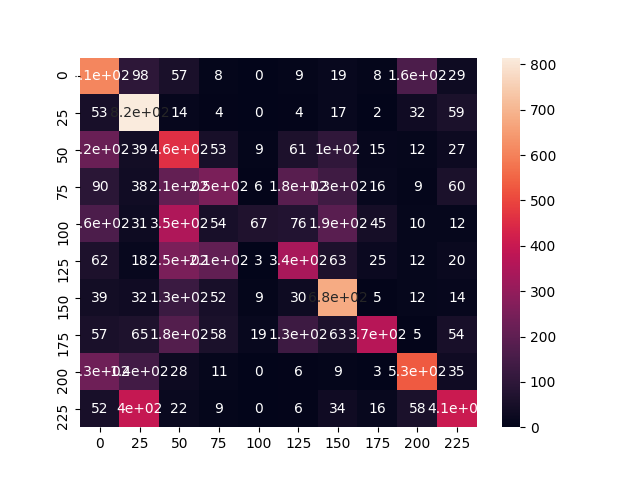
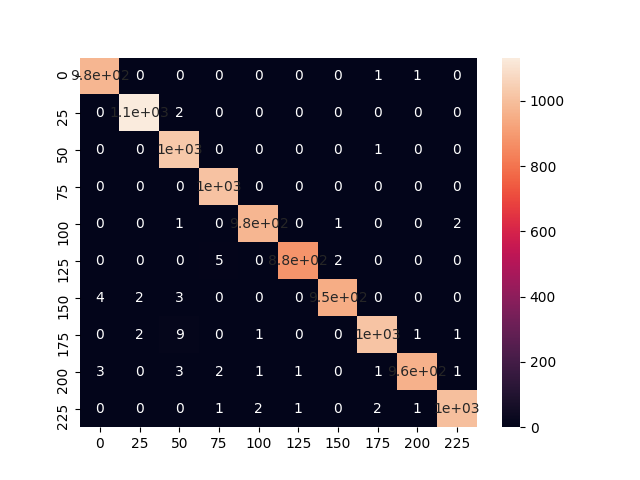
supplimentary

diff --git a/neighbors.py b/neighbors.py
@@ -98,10 +98,56 @@ def get_loss(outputs, u, name, syns_posts, grad_delta, inputs):
             syn[:, t_1] = syn[:, t_1] + (out - syn[:, t_1]) * theta_s
         delta_syns_posts = syn - syns_posts
         dot_product = torch.sum(delta_syns_posts * grad_delta, dim = -1)
-        loss += [dot_product]
+        loss += [dot_product]#/(d_syns_norm+0.00001)]
     loss = torch.stack(loss, dim=0)
     return loss
 
+def get_projects(outputs, u, name, syns_posts, grad_delta):
+    tau_m = glv.tau_m
+    m_decay = (1 - 1 / tau_m)
+    tau_s = glv.tau_s
+    theta_s = 1/tau_s
+    shape = outputs.shape
+    time_steps = glv.n_steps
+    neuron_num = shape[0] * shape[1] * shape[2] * shape[3]
+    outputs = outputs.view(neuron_num, shape[4])
+    u = u.view(neuron_num, shape[4])
+    threshold = 1
+    neighbors = []
+    projects = []
+    for t in range(time_steps):
+        neighbor_output = outputs > 0
+        near_by = torch.ones(neuron_num, dtype=torch.bool, device=glv.device)
+        current_t = t
+        while near_by.any() == True:
+            neighbor_output[:, current_t] = neighbor_output[:, current_t] ^ near_by
+            current_t += 1
+            if current_t == time_steps:
+                break
+            # New output of the previous time step
+            nopp = neighbor_output[:, current_t - 1]
+            # Membrane potential of the current time step
+            mbp = u[:, current_t]
+            near_by = near_by&\
+                ((near_by&(nopp==True)&((threshold<=mbp)&(mbp<(threshold+m_decay))))|\
+                (near_by&(nopp==False)&(((threshold-m_decay)<mbp)&(mbp<threshold))))
+        neighbor_output = neighbor_output.type(glv.dtype)
+        neighbor_syns_posts = []
+        syn = torch.zeros(neuron_num, dtype=glv.dtype, device=glv.device)
+        for i in range(time_steps):
+            syn = syn + (neighbor_output[:, i] - syn) * theta_s
+            neighbor_syns_posts.append(syn)
+        neighbor_syns_posts = torch.stack(neighbor_syns_posts, dim = 1)
+        syns_posts = syns_posts.reshape(neuron_num, time_steps)
+        grad_delta = grad_delta.reshape(neuron_num, time_steps)
+        delta_syns_posts = neighbor_syns_posts - syns_posts
+        dot_product = torch.sum(delta_syns_posts * (- grad_delta), dim = -1)
+        d_syns_norm = torch.sqrt(torch.sum(delta_syns_posts * delta_syns_posts,\
+            dim = -1))
+        projects += [dot_product/d_syns_norm]# * grad_d_norm 
+    projects = torch.stack(projects, dim=0)
+    return projects
+"""
 def get_projects(outputs, u, name, syns_posts, grad_delta):
     tau_m = glv.tau_m
     m_decay = (1 - 1 / tau_m)
@@ -145,13 +191,13 @@ def get_projects(outputs, u, name, syns_posts, grad_delta):
         grad_delta = grad_delta.reshape(neuron_num, time_steps)
         delta_syns_posts = neighbor_syns_posts - syns_posts
         dot_product = torch.sum(delta_syns_posts * grad_delta, dim = -1)
-        #d_syns_norm = torch.sqrt(torch.sum(delta_syns_posts * delta_syns_posts,\
-        #    dim = -1))
-        projects += [dot_product]
+        d_syns_norm = torch.sqrt(torch.sum(delta_syns_posts * delta_syns_posts,\
+            dim = -1))
+        projects += [dot_product/(d_syns_norm+0.00001)]
         #[dot_product/(d_syns_norm+0.00001)]# * grad_d_norm 
     projects = torch.stack(projects, dim=0)
     return projects
-
+"""
 def get_projects_simplified(outputs, u, name, syns_posts, grad_delta):
     tau_m = glv.tau_m
     m_decay = (1 - 1 / tau_m)

diff --git a/functions/na.py b/functions/na.py
@@ -5,7 +5,7 @@ from time import time
 import global_v as glv
 import neighbors as nb
 
-class TSSLBP(torch.autograd.Function):
+class NA(torch.autograd.Function):
     @staticmethod
     def forward(ctx, inputs, network_config, layer_config, name):
         shape = inputs.shape
@@ -55,42 +55,25 @@ class TSSLBP(torch.autograd.Function):
         tau_s = others[1].item()
         theta_m = others[2].item()
         name = others[3].item()
-
-        # projects = nb.get_projects(outputs, u, name, syns_posts, grad_delta)
+        # Trick 2-reduce farther neighbors' impact (best setting)
+        projects = nb.get_projects(outputs, u, name, syns_posts, grad_delta)
+        projects = projects.T.view(shape)
+        dist_aggregate_factor = 0.2/((u-threshold)**2 + 0.2)
+        grad = projects * (outputs - 0.5) * 2 * dist_aggregate_factor
+        # Trick 1-simple clippiing
+        """
         projects = nb.get_loss(outputs, u.clone(), name, syns_posts,\
                 grad_delta, inputs)
         projects = projects.T.view(shape)
-        #std = torch.std(u-threshold)
-        #lamda_u = 0.001# std * 0.1
-        dist_aggregate_factor = torch.clamp(1. / (threshold-u), -10,10)
-        #m = torch.nn.Softmax(dim=-1)
-        #dist_aggregate_factor = m(dist_aggregate_factor)
-        #grad = grad_delta * dist_aggregate_factor
-        grad = projects * dist_aggregate_factor#sig_grad
+        dist_aggregate_factor = torch.clamp(1 /(threshold-u), -10,10)
+        grad = projects * dist_aggregate_factor
+        """
+        # Grad norm normalize
         nb.update_norm(grad, name)
-        
+
         mean = torch.mean(torch.abs(grad))
         last_norm = glv.grad_norm_dict[glv.last_layer_name]
-        #grad = grad/mean * last_norm * torch.log(mean/last_norm + 1.1)
         grad = grad * torch.log(last_norm/(mean+0.00001) + 1.02) * 1.2
         nb.update_norm(grad, name)
-        
 
-        """
-        grad = torch.zeros_like(grad_delta)
-        syn_a = glv.syn_a.repeat(shape[0], shape[1], shape[2], shape[3], 1)
-        for t in range(n_steps):
-            # time_end = int(min(t+tau_s, n_steps))
-            time_end = n_steps
-            time_len = time_end-t
-            grad_a = torch.sum(syn_a[..., 0:time_len]*grad_delta[..., t:time_end], dim=-1)
-
-            a = 0.2
-            f = torch.clamp((-1 * u[..., t] + threshold) / a, -8, 8)
-            f = torch.exp(f)
-            f = f / ((1 + f) * (1 + f) * a)
-
-            grad[..., t] = grad_a * f
-        #grad = grad + grad_n
-        """
         return grad, None, None, None

diff --git a/main.py b/main.py
@@ -53,7 +53,7 @@ def train(network, trainloader, opti, epoch, states, network_config, layers_conf
     for batch_idx, (inputs, labels) in enumerate(trainloader):
         start_time = datetime.now()
         targets = torch.zeros((labels.shape[0], n_class, 1, 1, n_steps), dtype=dtype).to(device)
-        if network_config["rule"] == "TSSLBP":
+        if network_config["rule"] == "NA":
             if len(inputs.shape) < 5:
                 inputs = inputs.unsqueeze_(-1).repeat(1, 1, 1, 1, n_steps)
             # forward pass
@@ -130,7 +130,7 @@ def test(network, testloader, epoch, states, network_config, layers_config, earl
     with torch.no_grad():
         # for batch_idx, (inputs, labels) in enumerate(track(testloader, description=des_str, auto_refresh=False)):
         for batch_idx, (inputs, labels) in enumerate(testloader):
-            if network_config["rule"] == "TSSLBP":
+            if network_config["rule"] == "NA":
                 if len(inputs.shape) < 5:
                     inputs = inputs.unsqueeze_(-1).repeat(1, 1, 1, 1, n_steps)
                 # forward pass
@@ -197,7 +197,7 @@ if __name__ == '__main__':
 
     # Check whether a GPU is available
     if torch.cuda.is_available():
-        device = 1 #torch.device("cuda")
+        device = 1#torch.device("cuda")
         cuda.init()
         c_device = aboutCudaDevices()
         print(c_device.info())
@@ -245,7 +245,7 @@ if __name__ == '__main__':
     l_states = learningStats()
     early_stopping = EarlyStopping()
     my_lr_scheduler =\
-        torch.optim.lr_scheduler.ExponentialLR(optimizer=optimizer, gamma=0.99)
+        torch.optim.lr_scheduler.ExponentialLR(optimizer=optimizer, gamma=0.985)
     for e in range(params['Network']['epochs']):
         l_states.training.reset()
         train(net, train_loader, optimizer, e, l_states, params['Network'], params['Layers'], error)

diff --git a/layers/linear.py b/layers/linear.py
@@ -4,7 +4,7 @@ import torch
 import torch.nn as nn
 import torch.nn.functional as f
 import torch.nn.init as init
-import functions.tsslbp as tsslbp
+import functions.na as na
 import global_v as glv
 
 
@@ -60,7 +60,7 @@ class LinearLayer(nn.Linear):
 
     def forward_pass(self, x, epoch):
         y = self.forward(x)
-        y = tsslbp.TSSLBP.apply(y, self.network_config, self.layer_config,\
+        y = na.NA.apply(y, self.network_config, self.layer_config,\
                 self.name)
         return y
 

diff --git a/layers/conv.py b/layers/conv.py
@@ -4,7 +4,7 @@ import torch
 import torch.nn as nn
 import torch.nn.functional as f
 import torch.nn.init as init
-import functions.tsslbp as tsslbp
+import functions.na as na
 import global_v as glv
 
 
@@ -93,7 +93,7 @@ class ConvLayer(nn.Conv3d):
 
     def forward_pass(self, x, epoch):
         y = self.forward(x)
-        y = tsslbp.TSSLBP.apply(y, self.network_config, self.layer_config,\
+        y = na.NA.apply(y, self.network_config, self.layer_config,\
                 self.name)
         return y
 

diff --git a/cnns.py b/cnns.py
@@ -48,7 +48,7 @@ class Network(nn.Module):
             if self.layers[i].type == "dropout":
                 if is_train:
                     spikes = self.layers[i](spikes)
-            elif self.network_config["rule"] == "TSSLBP":
+            elif self.network_config["rule"] == "NA":
                 spikes = self.layers[i].forward_pass(spikes, epoch)
             else:
                 raise Exception('Unrecognized rule type. It is: {}'.format(self.network_config['rule']))
